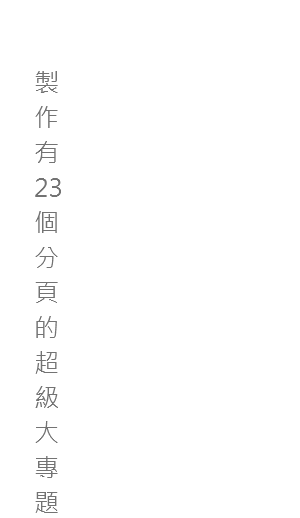
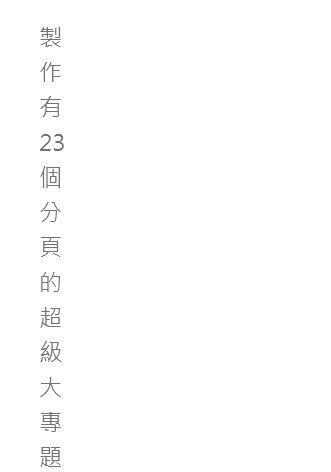
modified cover and category page

Changed region(s): [[0.12, 0.2076, 0.21, 1.0], [0.12, 0.0593, 0.21, 0.178]]

diff --git a/src/components/CoverPage.vue b/src/components/CoverPage.vue
@@ -65,12 +65,8 @@ export default {
     pageImageSize() {
       return {
         width: window.innerWidth * 0.65,
-        height: window.innerHeight * 0.9,
+        height: window.innerHeight * 0.8,
       }
-    },
-    coverImageRatio() {
-      // return this.isMob ? (443 / 272) : (931 / 1288);
-      return this.isMob ? (443 / 272) : 0.6;
     },
     titleImageSrc() {
       return require('@/assets/cover/cover_title.png');
@@ -105,10 +101,10 @@ export default {
             0,
             img.width,
             img.height,
-            vm.pageImageSize.width * (vm.isMob ? 0 : 0.075),
-            0,
-            vm.pageImageSize.width * (vm.isMob ? 1 : 0.85),
-            vm.pageImageSize.width * vm.coverImageRatio
+            vm.pageImageSize.width * (vm.isMob ? 0.1 : 0),
+            vm.pageImageSize.width * (vm.isMob ? 0.1 : 0),
+            vm.pageImageSize.width * (vm.isMob ? 1 : 0.76),
+            vm.pageImageSize.width * (vm.isMob ? 0.7 : 0.6)
           );
           getImageData();
         };
@@ -275,10 +271,7 @@ export default {
       height: 100%;
       opacity: 0;
       transition: .333s ease-in-out;
-      padding-top: 3vh;
-      @media screen and (min-width: 769px) {
-        padding-top: 5vh;
-      }
+      padding-top: 5vh;
       img {
         width: 65vw;
         margin-left: 20px;
@@ -325,7 +318,7 @@ export default {
     padding: 23vh 15px 0 15px;
     opacity: 0;
     @media screen and (max-width: 375px) {
-      padding: 25vh 15px 0 15px;
+      padding: 26vh 15px 0 15px;
     }
     @media screen and (min-width: 769px) {
       position: relative;
@@ -376,7 +369,7 @@ export default {
         color: #ffffff;
         text-align: justify;
         margin-bottom: 5px;
-        line-height: 1.67;    
+        line-height: 1.67;
         @media screen and (max-width: 375px) {
           font-size: 1.0rem;
         }
@@ -395,7 +388,9 @@ export default {
   }
 }
 .cover-page-body {
-  position: relative;
+  position: absolute;
+  left: 0;
+  bottom: 0;
   z-index: 1;
   width: 100%;
   height: 25%;
@@ -405,7 +400,6 @@ export default {
     height: 30%;
     background-image: url('../assets/cover/cover_ground.png');
     background-position: 90% 0;
-    transform: translateY(-18vh);
   }
 }
 </style>

diff --git a/src/components/PageMaze.vue b/src/components/PageMaze.vue
@@ -77,8 +77,8 @@ export default {
           },
           coverSize: {
             mob: {
-              width: 300,
-              height: 518,
+              width: 331,
+              height: 472,
             },
             pc: {
               width: 1011,
@@ -561,8 +561,8 @@ export default {
           },
           coverSize: {
             mob: {
-              width: 371,
-              height: 427,
+              width: 329,
+              height: 379,
             },
             pc: {
               width: 1003,
@@ -835,8 +835,8 @@ export default {
           },
           coverSize: {
             mob: {
-              width: 392,
-              height: 477,
+              width: 353,
+              height: 439,
             },
             pc: {
               width: 1129,
@@ -1166,8 +1166,8 @@ export default {
           },
           coverSize: {
             mob: {
-              width: 363,
-              height: 562,
+              width: 355,
+              height: 513,
             },
             pc: {
               width: 1128,

diff --git a/src/components/CategoryPage.vue b/src/components/CategoryPage.vue
@@ -238,6 +238,9 @@ export default {
     transition: opacity 1s ease-in-out;
     img {
       width: 80%;
+      @media screen and (max-width: 375px) {
+        transform: scale(0.8);
+      }
       @media screen and (min-width: 768px) and (max-width: 1024px) {
         height: 70%;
         width: auto;
@@ -250,6 +253,10 @@ export default {
   .category-page-canvas {
     transition: opacity 1s ease-in-out;
     animation: bounce .666s ease-in-out forwards;
+    @media screen and (max-width: 375px) {
+      animation: bounce-shrink .666s ease-in-out forwards;
+      transform-origin: 50% 30%;
+    }
     @keyframes bounce {
       0% {
         transform: scale(5);
@@ -259,6 +266,17 @@ export default {
       }
       100% {
         transform: scale(1);
+      }
+    }
+    @keyframes bounce-shrink {
+      0% {
+        transform: scale(5);
+      }
+      50% {
+        transform: scale(2);
+      }
+      100% {
+        transform: scale(0.8);
       }
     }
   }
